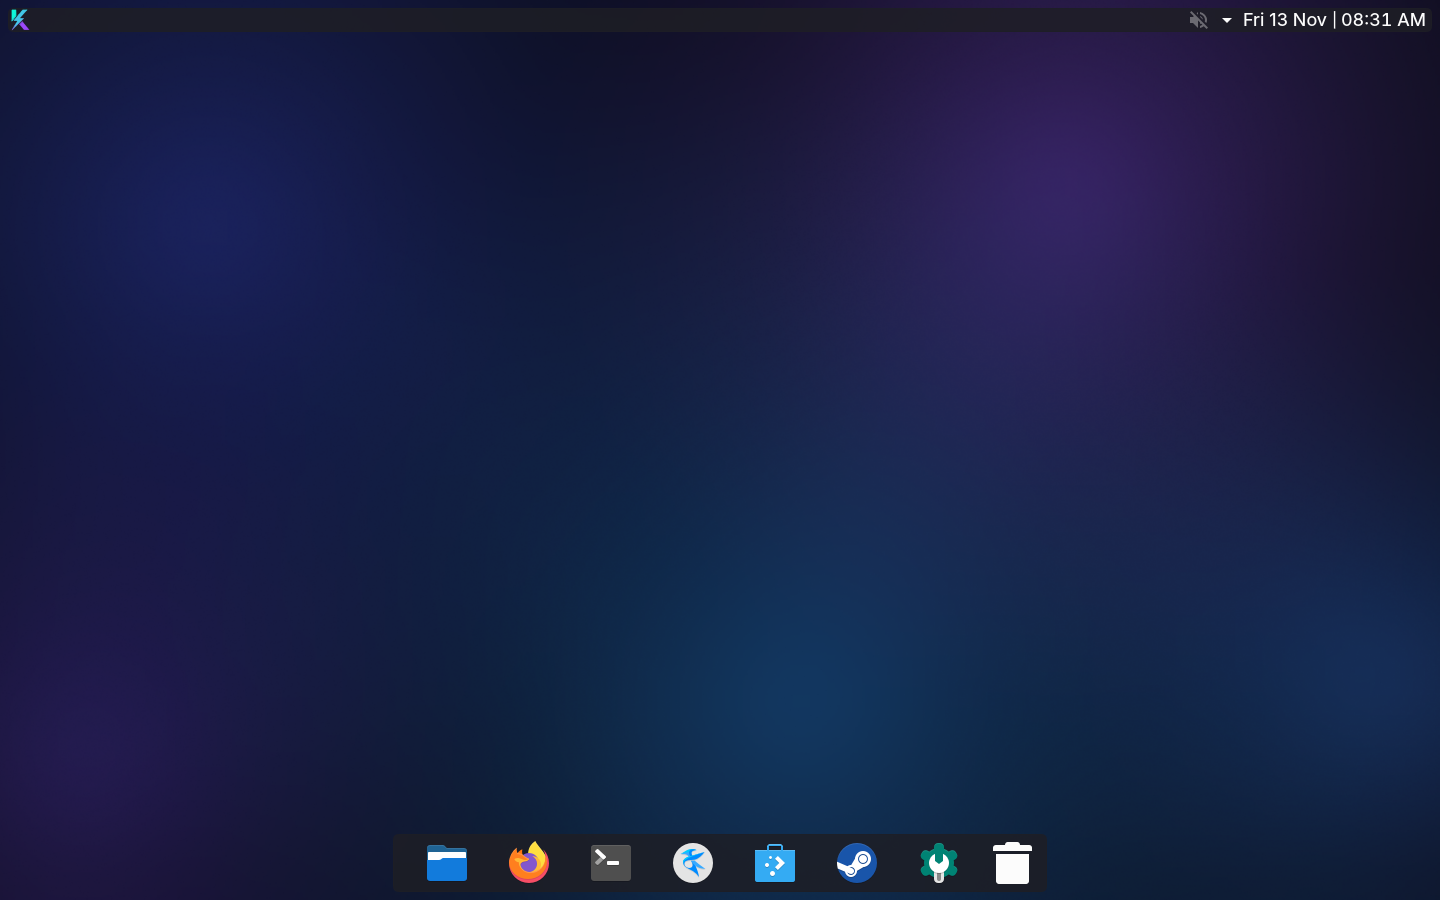
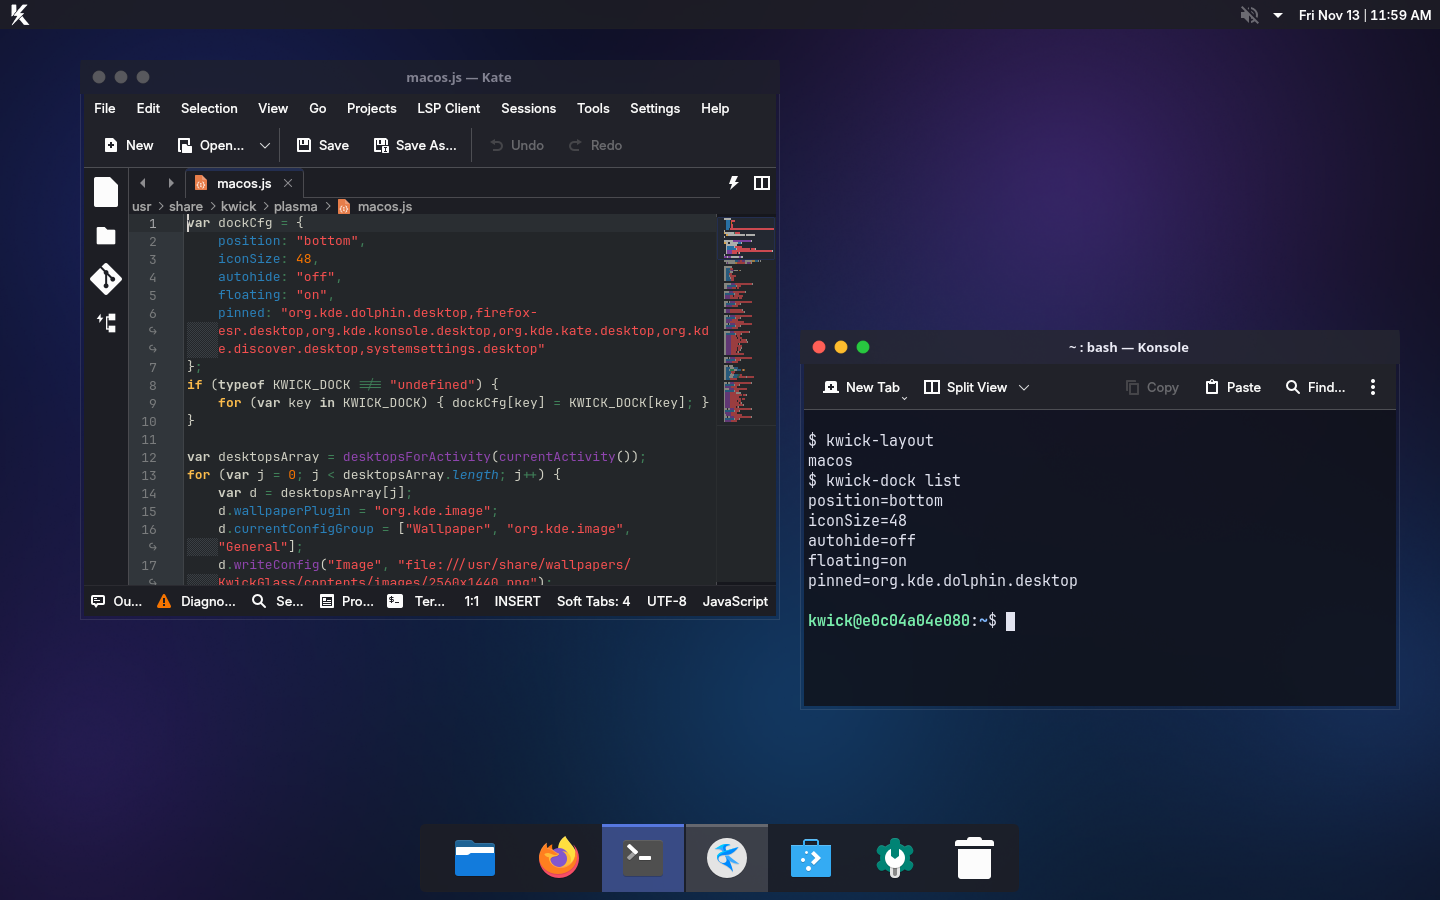
desktop: full-screen screenshots and polished layouts
The nested compositor opened at 1024x768 and the wallpaper used
PreserveAspectFit, so earlier shots covered part of the screen. The
layouts now crop-fill the wallpaper, the macOS menu bar carries a white
symbolic mark and a compact clock, the Windows taskbar is 48px, and the
Linux layout is a thin top bar with a floating left dock.

diff --git a/desktop/rootfs/usr/share/kwick/plasma/macos.js b/desktop/rootfs/usr/share/kwick/plasma/macos.js
@@ -1,4 +1,14 @@
-// KwickOS macOS (liquid glass) layout — applied by kwick-layout and at first login.
+var dockCfg = {
+    position: "bottom",
+    iconSize: 48,
+    autohide: "off",
+    floating: "on",
+    pinned: "org.kde.dolphin.desktop,firefox-esr.desktop,org.kde.konsole.desktop,org.kde.kate.desktop,org.kde.discover.desktop,systemsettings.desktop"
+};
+if (typeof KWICK_DOCK !== "undefined") {
+    for (var key in KWICK_DOCK) { dockCfg[key] = KWICK_DOCK[key]; }
+}
+
 var desktopsArray = desktopsForActivity(currentActivity());
 for (var j = 0; j < desktopsArray.length; j++) {
     var d = desktopsArray[j];
@@ -8,76 +18,86 @@ for (var j = 0; j < desktopsArray.length; j++) {
     d.writeConfig("FillMode", "2");
 }
 panels().forEach(function (p) { p.remove(); });
-var launchers = [
-    "applications:org.kde.dolphin.desktop", "applications:firefox-esr.desktop",
-    "applications:org.kde.konsole.desktop", "applications:org.kde.kate.desktop",
-    "applications:org.kde.discover.desktop", "applications:steam.desktop",
-    "applications:systemsettings.desktop"
-].join(",");
 
-// ── Menu bar: flush to the top and both edges, translucent ──────────────────
+var launchers = dockCfg.pinned.split(",").filter(function (s) { return s.length > 0; })
+    .map(function (s) { return "applications:" + s; }).join(",");
+
 var top = new Panel;
 top.location = "top";
 top.height = Math.round(gridUnit * 1.6);
-top.floating = false;              // no gap above or at the sides
+top.floating = false;
 top.hiding = "none";
 top.opacity = "translucent";
 top.alignment = "left";
 top.lengthMode = "fill";
 
-// App launcher (KwickOS mark)
+var edgeL = top.addWidget("org.kde.plasma.marginsseparator");
+edgeL.currentConfigGroup = ["General"];
+edgeL.writeConfig("margin", "10");
+
 var k = top.addWidget("org.kde.plasma.kickoff");
 k.currentConfigGroup = ["General"];
-k.writeConfig("icon", "kwick-start");
+k.writeConfig("icon", "kwickos-symbolic");
 k.writeConfig("showAppsByName", "true");
 
-// Global menu for the focused app (macOS-style)
-top.addWidget("org.kde.plasma.appmenu");
+var gapL = top.addWidget("org.kde.plasma.marginsseparator");
+gapL.currentConfigGroup = ["General"];
+gapL.writeConfig("margin", "6");
 
-// Spacer pushes tray + clock to the right
+top.addWidget("org.kde.plasma.appmenu");
 top.addWidget("org.kde.plasma.panelspacer");
 
-// Small margin separator before the tray for breathing room
 var sep1 = top.addWidget("org.kde.plasma.marginsseparator");
+sep1.currentConfigGroup = ["General"];
+sep1.writeConfig("margin", "8");
 top.addWidget("org.kde.plasma.systemtray");
+var sep3 = top.addWidget("org.kde.plasma.marginsseparator");
+sep3.currentConfigGroup = ["General"];
+sep3.writeConfig("margin", "6");
 
-// Clock: 12-hour with AM/PM and date — macOS style
 var clk = top.addWidget("org.kde.plasma.digitalclock");
 clk.currentConfigGroup = ["Appearance"];
 clk.writeConfig("showDate", "true");
 clk.writeConfig("dateFormat", "custom");
-clk.writeConfig("customDateFormat", "ddd d MMM");
+clk.writeConfig("customDateFormat", "ddd MMM d");
 clk.writeConfig("dateDisplayFormat", "BesideTime");
 clk.writeConfig("use24hFormat", 0);
 clk.writeConfig("showSeconds", "false");
 clk.writeConfig("fontFamily", "Inter");
 clk.writeConfig("fontWeight", "500");
-clk.writeConfig("fontSize", "10");
+clk.writeConfig("fontSize", "9");
+clk.writeConfig("autoFontAndSize", "false");
 
-// Margin separator after clock so the time is not flush against the edge
 var sep2 = top.addWidget("org.kde.plasma.marginsseparator");
 sep2.currentConfigGroup = ["General"];
 sep2.writeConfig("margin", "8");
 
-// ── Floating glass dock ─────────────────────────────────────────────────────
 var dock = new Panel;
-dock.location = "bottom";
-dock.height = Math.round(gridUnit * 3.6);
+dock.location = dockCfg.position;
+dock.height = parseInt(dockCfg.iconSize, 10) + 20;
 dock.alignment = "center";
 dock.lengthMode = "fit";
-dock.floating = true;
-dock.hiding = "dodgewindows";
+dock.floating = dockCfg.floating !== "off";
+dock.hiding = dockCfg.autohide === "on" ? "autohide" : "dodgewindows";
 dock.opacity = "translucent";
-// Apple-style: extra breathing room on each side of the dock
+
 var dl = dock.addWidget("org.kde.plasma.marginsseparator");
+dl.currentConfigGroup = ["General"];
+dl.writeConfig("margin", "4");
 var t = dock.addWidget("org.kde.plasma.icontasks");
 t.currentConfigGroup = ["General"];
 t.writeConfig("launchers", launchers);
 t.writeConfig("showOnlyCurrentDesktop", "false");
-t.writeConfig("iconSpacing", "3");
+t.writeConfig("iconSpacing", "2");
 t.writeConfig("indicateAudioStreams", "true");
 t.writeConfig("showToolTips", "true");
-t.writeConfig("groupingStrategy", "0");       // don't group
-t.writeConfig("middleClickAction", "None");   // macOS: no middle-click close
-var dr = dock.addWidget("org.kde.plasma.marginsseparator");
+t.writeConfig("groupingStrategy", "0");
+t.writeConfig("middleClickAction", "None");
+t.writeConfig("maxStripes", "1");
+var dm = dock.addWidget("org.kde.plasma.marginsseparator");
+dm.currentConfigGroup = ["General"];
+dm.writeConfig("margin", "8");
 dock.addWidget("org.kde.plasma.trash");
+var dr = dock.addWidget("org.kde.plasma.marginsseparator");
+dr.currentConfigGroup = ["General"];
+dr.writeConfig("margin", "4");

diff --git a/desktop/rootfs/usr/share/kwick/plasma/linux.js b/desktop/rootfs/usr/share/kwick/plasma/linux.js
@@ -1,4 +1,3 @@
-// KwickOS Linux (Zorin/GNOME-like) layout — applied by kwick-layout.
 var desktopsArray = desktopsForActivity(currentActivity());
 for (var j = 0; j < desktopsArray.length; j++) {
     var d = desktopsArray[j];
@@ -15,46 +14,64 @@ var launchers = [
     "applications:systemsettings.desktop"
 ].join(",");
 
-// Top panel: launcher, workspaces, centered clock, tray
 var top = new Panel;
 top.location = "top";
-top.height = Math.round(gridUnit * 1.7);
+top.height = Math.round(gridUnit * 1.5);
 top.floating = false;
 top.hiding = "none";
-top.opacity = "adaptive";
+top.opacity = "translucent";
 
+var edgeL = top.addWidget("org.kde.plasma.marginsseparator");
+edgeL.currentConfigGroup = ["General"];
+edgeL.writeConfig("margin", "8");
 var k = top.addWidget("org.kde.plasma.kickoff");
 k.currentConfigGroup = ["General"];
 k.writeConfig("icon", "kwick-start");
+var gapL = top.addWidget("org.kde.plasma.marginsseparator");
+gapL.currentConfigGroup = ["General"];
+gapL.writeConfig("margin", "10");
 
-top.addWidget("org.kde.plasma.pager");
 top.addWidget("org.kde.plasma.panelspacer");
 
-// Centered clock: date above, time below (GNOME style)
 var clk = top.addWidget("org.kde.plasma.digitalclock");
 clk.currentConfigGroup = ["Appearance"];
 clk.writeConfig("showDate", "true");
 clk.writeConfig("dateFormat", "custom");
 clk.writeConfig("customDateFormat", "ddd d MMM");
-clk.writeConfig("dateDisplayFormat", "BelowTime");
+clk.writeConfig("dateDisplayFormat", "BesideTime");
 clk.writeConfig("use24hFormat", 0);
 clk.writeConfig("showSeconds", "false");
-clk.writeConfig("fontFamily", "Inter");
+clk.writeConfig("fontFamily", "Ubuntu Sans");
 clk.writeConfig("fontWeight", "500");
+clk.writeConfig("fontSize", "9");
+clk.writeConfig("autoFontAndSize", "false");
 
 top.addWidget("org.kde.plasma.panelspacer");
+var sepT = top.addWidget("org.kde.plasma.marginsseparator");
+sepT.currentConfigGroup = ["General"];
+sepT.writeConfig("margin", "6");
 top.addWidget("org.kde.plasma.systemtray");
+var edgeR = top.addWidget("org.kde.plasma.marginsseparator");
+edgeR.currentConfigGroup = ["General"];
+edgeR.writeConfig("margin", "8");
 
-// Floating dock on the left
 var dock = new Panel;
 dock.location = "left";
-dock.height = Math.round(gridUnit * 3.4);
+dock.height = 60;
 dock.alignment = "center";
 dock.lengthMode = "fit";
 dock.floating = true;
 dock.hiding = "dodgewindows";
-dock.opacity = "adaptive";
+dock.opacity = "translucent";
+var dv = dock.addWidget("org.kde.plasma.marginsseparator");
+dv.currentConfigGroup = ["General"];
+dv.writeConfig("margin", "4");
 var t = dock.addWidget("org.kde.plasma.icontasks");
 t.currentConfigGroup = ["General"];
 t.writeConfig("launchers", launchers);
 t.writeConfig("showOnlyCurrentDesktop", "false");
+t.writeConfig("iconSpacing", "2");
+t.writeConfig("maxStripes", "1");
+var dw = dock.addWidget("org.kde.plasma.marginsseparator");
+dw.currentConfigGroup = ["General"];
+dw.writeConfig("margin", "4");

diff --git a/desktop/rootfs/usr/share/kwick/plasma/windows.js b/desktop/rootfs/usr/share/kwick/plasma/windows.js
@@ -1,4 +1,3 @@
-// KwickOS Windows 11 layout — applied by kwick-layout.
 var desktopsArray = desktopsForActivity(currentActivity());
 for (var j = 0; j < desktopsArray.length; j++) {
     var d = desktopsArray[j];
@@ -15,15 +14,13 @@ var launchers = [
     "applications:systemsettings.desktop"
 ].join(",");
 
-// Windows 11: centered icons on a translucent full-width taskbar; tray + clock on the right.
 var p = new Panel;
 p.location = "bottom";
-p.height = Math.round(gridUnit * 2.9);
+p.height = 48;
 p.floating = false;
 p.hiding = "none";
 p.opacity = "translucent";
 
-// Left fixed spacer mirrors the tray+clock width so icons stay visually centered
 var lead = p.addWidget("org.kde.plasma.panelspacer");
 lead.currentConfigGroup = ["Configuration", "General"];
 lead.writeConfig("expanding", "false");
@@ -31,12 +28,13 @@ lead.writeConfig("length", "260");
 
 var l2 = p.addWidget("org.kde.plasma.panelspacer");
 
-// Start button — original KwickOS mark (not the Windows logo)
 var k = p.addWidget("org.kde.plasma.kickoff");
 k.currentConfigGroup = ["General"];
 k.writeConfig("icon", "kwick-start-fluent");
+var gapK = p.addWidget("org.kde.plasma.marginsseparator");
+gapK.currentConfigGroup = ["General"];
+gapK.writeConfig("margin", "6");
 
-// Centered task icons
 var t = p.addWidget("org.kde.plasma.icontasks");
 t.currentConfigGroup = ["General"];
 t.writeConfig("launchers", launchers);
@@ -46,7 +44,9 @@ t.writeConfig("maxStripes", "1");
 
 p.addWidget("org.kde.plasma.panelspacer");
 
-// Tray + clock (right side, Windows 11 style)
+var gapT = p.addWidget("org.kde.plasma.marginsseparator");
+gapT.currentConfigGroup = ["General"];
+gapT.writeConfig("margin", "8");
 p.addWidget("org.kde.plasma.systemtray");
 var c = p.addWidget("org.kde.plasma.digitalclock");
 c.currentConfigGroup = ["Appearance"];
@@ -56,12 +56,12 @@ c.writeConfig("customDateFormat", "M/d/yyyy");
 c.writeConfig("dateDisplayFormat", "BelowTime");
 c.writeConfig("use24hFormat", 0);
 c.writeConfig("showSeconds", "false");
-c.writeConfig("fontFamily", "Inter");
+c.writeConfig("fontFamily", "Selawik");
 c.writeConfig("fontWeight", "400");
-c.writeConfig("fontSize", "8");           // Windows 11 clock is small
+c.writeConfig("fontSize", "8");
 c.writeConfig("autoFontAndSize", "false");
 
 var edge = p.addWidget("org.kde.plasma.marginsseparator");
 edge.currentConfigGroup = ["General"];
 edge.writeConfig("margin", "8");
-p.addWidget("org.kde.plasma.showdesktop");
+

diff --git a/desktop/gen-theme.py b/desktop/gen-theme.py
@@ -257,7 +257,7 @@ for i, c in enumerate(pal):
     cs += f"\n[Color{i}]\nColor={c[0]},{c[1]},{c[2]}\n\n[Color{i}Faint]\nColor={c[0]},{c[1]},{c[2]}\n\n[Color{i}Intense]\nColor={palI[i][0]},{palI[i][1]},{palI[i][2]}\n"
 cs += "\n[General]\nBlur=true\nColorRandomization=false\nDescription=KwickOS Glass\nOpacity=0.82\nWallpaper=\n"
 w("usr/share/konsole/KwickGlass.colorscheme", cs)
-w("usr/share/konsole/KwickOS.profile", "[Appearance]\nColorScheme=KwickGlass\nFont=JetBrains Mono,11,-1,5,400,0,0,0,0,0,0,0,0,0,0,1\n\n[General]\nName=KwickOS\nParent=FALLBACK/\n\n[Scrolling]\nScrollBarPosition=2\n\n[Terminal Features]\nBlinkingCursorEnabled=true\n")
+w("usr/share/konsole/KwickOS.profile", "[Appearance]\nColorScheme=KwickGlass\nFont=JetBrains Mono,11,-1,5,400,0,0,0,0,0,0,0,0,0,0,1\nTerminalMargin=14\nTerminalCenter=false\n\n[General]\nName=KwickOS\nParent=FALLBACK/\n\n[Scrolling]\nScrollBarPosition=2\n\n[Terminal Features]\nBlinkingCursorEnabled=true\n")
 w("etc/xdg/konsolerc", "[Desktop Entry]\nDefaultProfile=KwickOS.profile\n\n[KonsoleWindow]\nShowMenuBarByDefault=false\n")
 
 # ------------------------------------------------------------------------ icons

diff --git a/README.md b/README.md
@@ -26,7 +26,7 @@ root@kwick:/# systemctl enable --now nginx      # works in containers too
 |---|---|
 | ![headless](docs/img/headless.png) | ![desktop](docs/img/desktop.png) |
 
-Every layout is fully dark. `kwick-layout macos` (default) is a liquid-glass look: translucent blurred menu bar and floating dock, traffic-light buttons. `windows` is Windows 11: centered taskbar, Fluent caption buttons on the right. `linux` is a top panel with a left dock. Every start button uses the transparent vector trace of the Flux-generated KwickOS K/lightning mark. Screenshots are real Plasma sessions (software-rendered):
+Every layout is fully dark. `kwick-layout macos` (default) is a liquid-glass look: a full-width menu bar flush to the screen edges with a white monochrome KwickOS mark and a compact clock, a floating dock with 48 px icons, and traffic-light buttons at the top left of every window. `windows` is Windows 11: a 48 px taskbar with centered icons and the KwickOS K start icon (never a Windows logo), a small padded clock, and Fluent caption buttons on the right. `linux` is a thin top bar (launcher, centered clock, tray) with a floating dock on the left. The dock is configured with `kwick-dock` (position, icon size, autohide, pinned apps). Screenshots are real Plasma sessions on a 1440x900 screen (software-rendered), each with open app windows so the window decorations show:
 
 | macOS style | Windows style | Linux style |
 |---|---|---|
@@ -36,13 +36,11 @@ Every layout is fully dark. `kwick-layout macos` (default) is a liquid-glass loo
 |---|---|
 | ![tools](docs/img/terminal-tools.png) | ![settings](docs/img/system-settings.png) |
 
-| Dolphin, Windows style | Firefox, macOS style | Discover, Linux style |
-|---|---|---|
-| ![dolphin](docs/img/windows-dolphin.png) | ![firefox](docs/img/macos-firefox.png) | ![discover](docs/img/linux-discover.png) |
+| Firefox, macOS style | Kate, Linux style |
+|---|---|
+| ![firefox](docs/img/macos-firefox.png) | ![kate](docs/img/linux-kate.png) |
 
-Window decorations (KwickGlass, KwickFluent), three dark color schemes, wallpapers and the Konsole glass profile are generated by `desktop/gen-theme.py`. The blur and translucency are KWin effects and were not visible in these software-rendered shots; they need a GL compositor on real hardware and have not been verified.
-
-Known issue: Discover shows an "Update Issue" dialog in the screenshot environment (no network or Flathub remote there); system packages are managed with `apt`, not Discover.
+Window decorations (KwickGlass, KwickFluent), three dark color schemes, wallpapers and the Konsole glass profile are generated by `desktop/gen-theme.py`. The blur and translucency are KWin effects and were not visible in these software-rendered shots; they need a GL compositor on real hardware and have not been verified. System packages are managed with `apt`; Discover is installed but is not shown in the screenshots because it reports an "Update Issue" dialog in the offline screenshot environment.
 
 ## How it compares
 
@@ -184,8 +182,8 @@ Verified in the desktop image, rendered with Xvfb (no GPU):
 
 ![KwickOS Settings](docs/img/settings.png)
 
-![Font aliases from kwick-fonts](docs/img/fonts.png)
-![Windows snapped into a tiling layout](docs/img/tiling.png)
+![kwick-fonts names per layout and fc-match results for Segoe UI, Calibri, Consolas, SF Pro, Helvetica Neue and Ubuntu](docs/img/fonts.png)
+![Three terminals tiled on the Linux layout, placed by a KWin script (a stand-in for the sway tiler)](docs/img/tiling.png)
 
 Not verified, and why:
 
